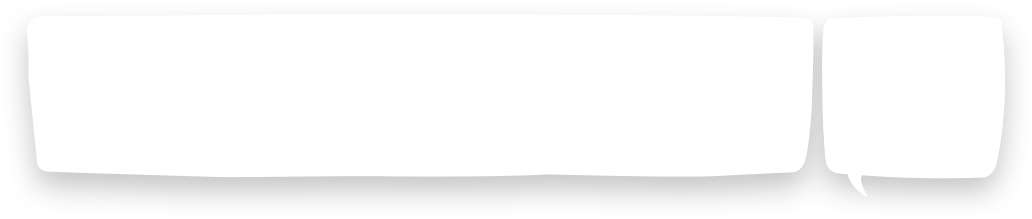
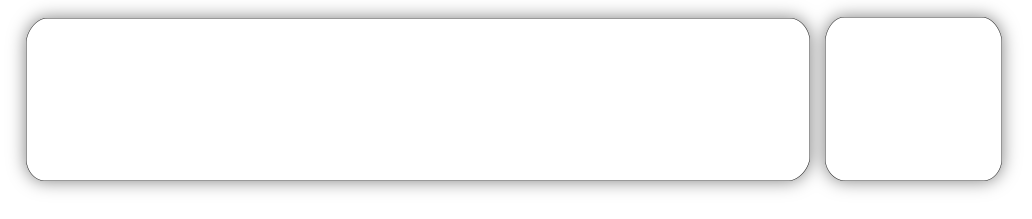
small styles fixes, replace promo-org-shape

diff --git a/styles/main.css b/styles/main.css
@@ -549,8 +549,8 @@ footer {
   width: 157px;
   max-height: 162px;
   position: absolute;
-  right: 183px;
-  top: 25px;
+  right: 190px;
+  top: 28px;
   border-bottom-left-radius: 5px; }
 
 .promo-org-links a {

diff --git a/styles/main.sass b/styles/main.sass
@@ -622,8 +622,8 @@ footer
   width: 157px
   max-height: 162px
   position: absolute
-  right: 183px
-  top: 25px
+  right: 190px
+  top: 28px
   border-bottom-left-radius: 5px
 
 
